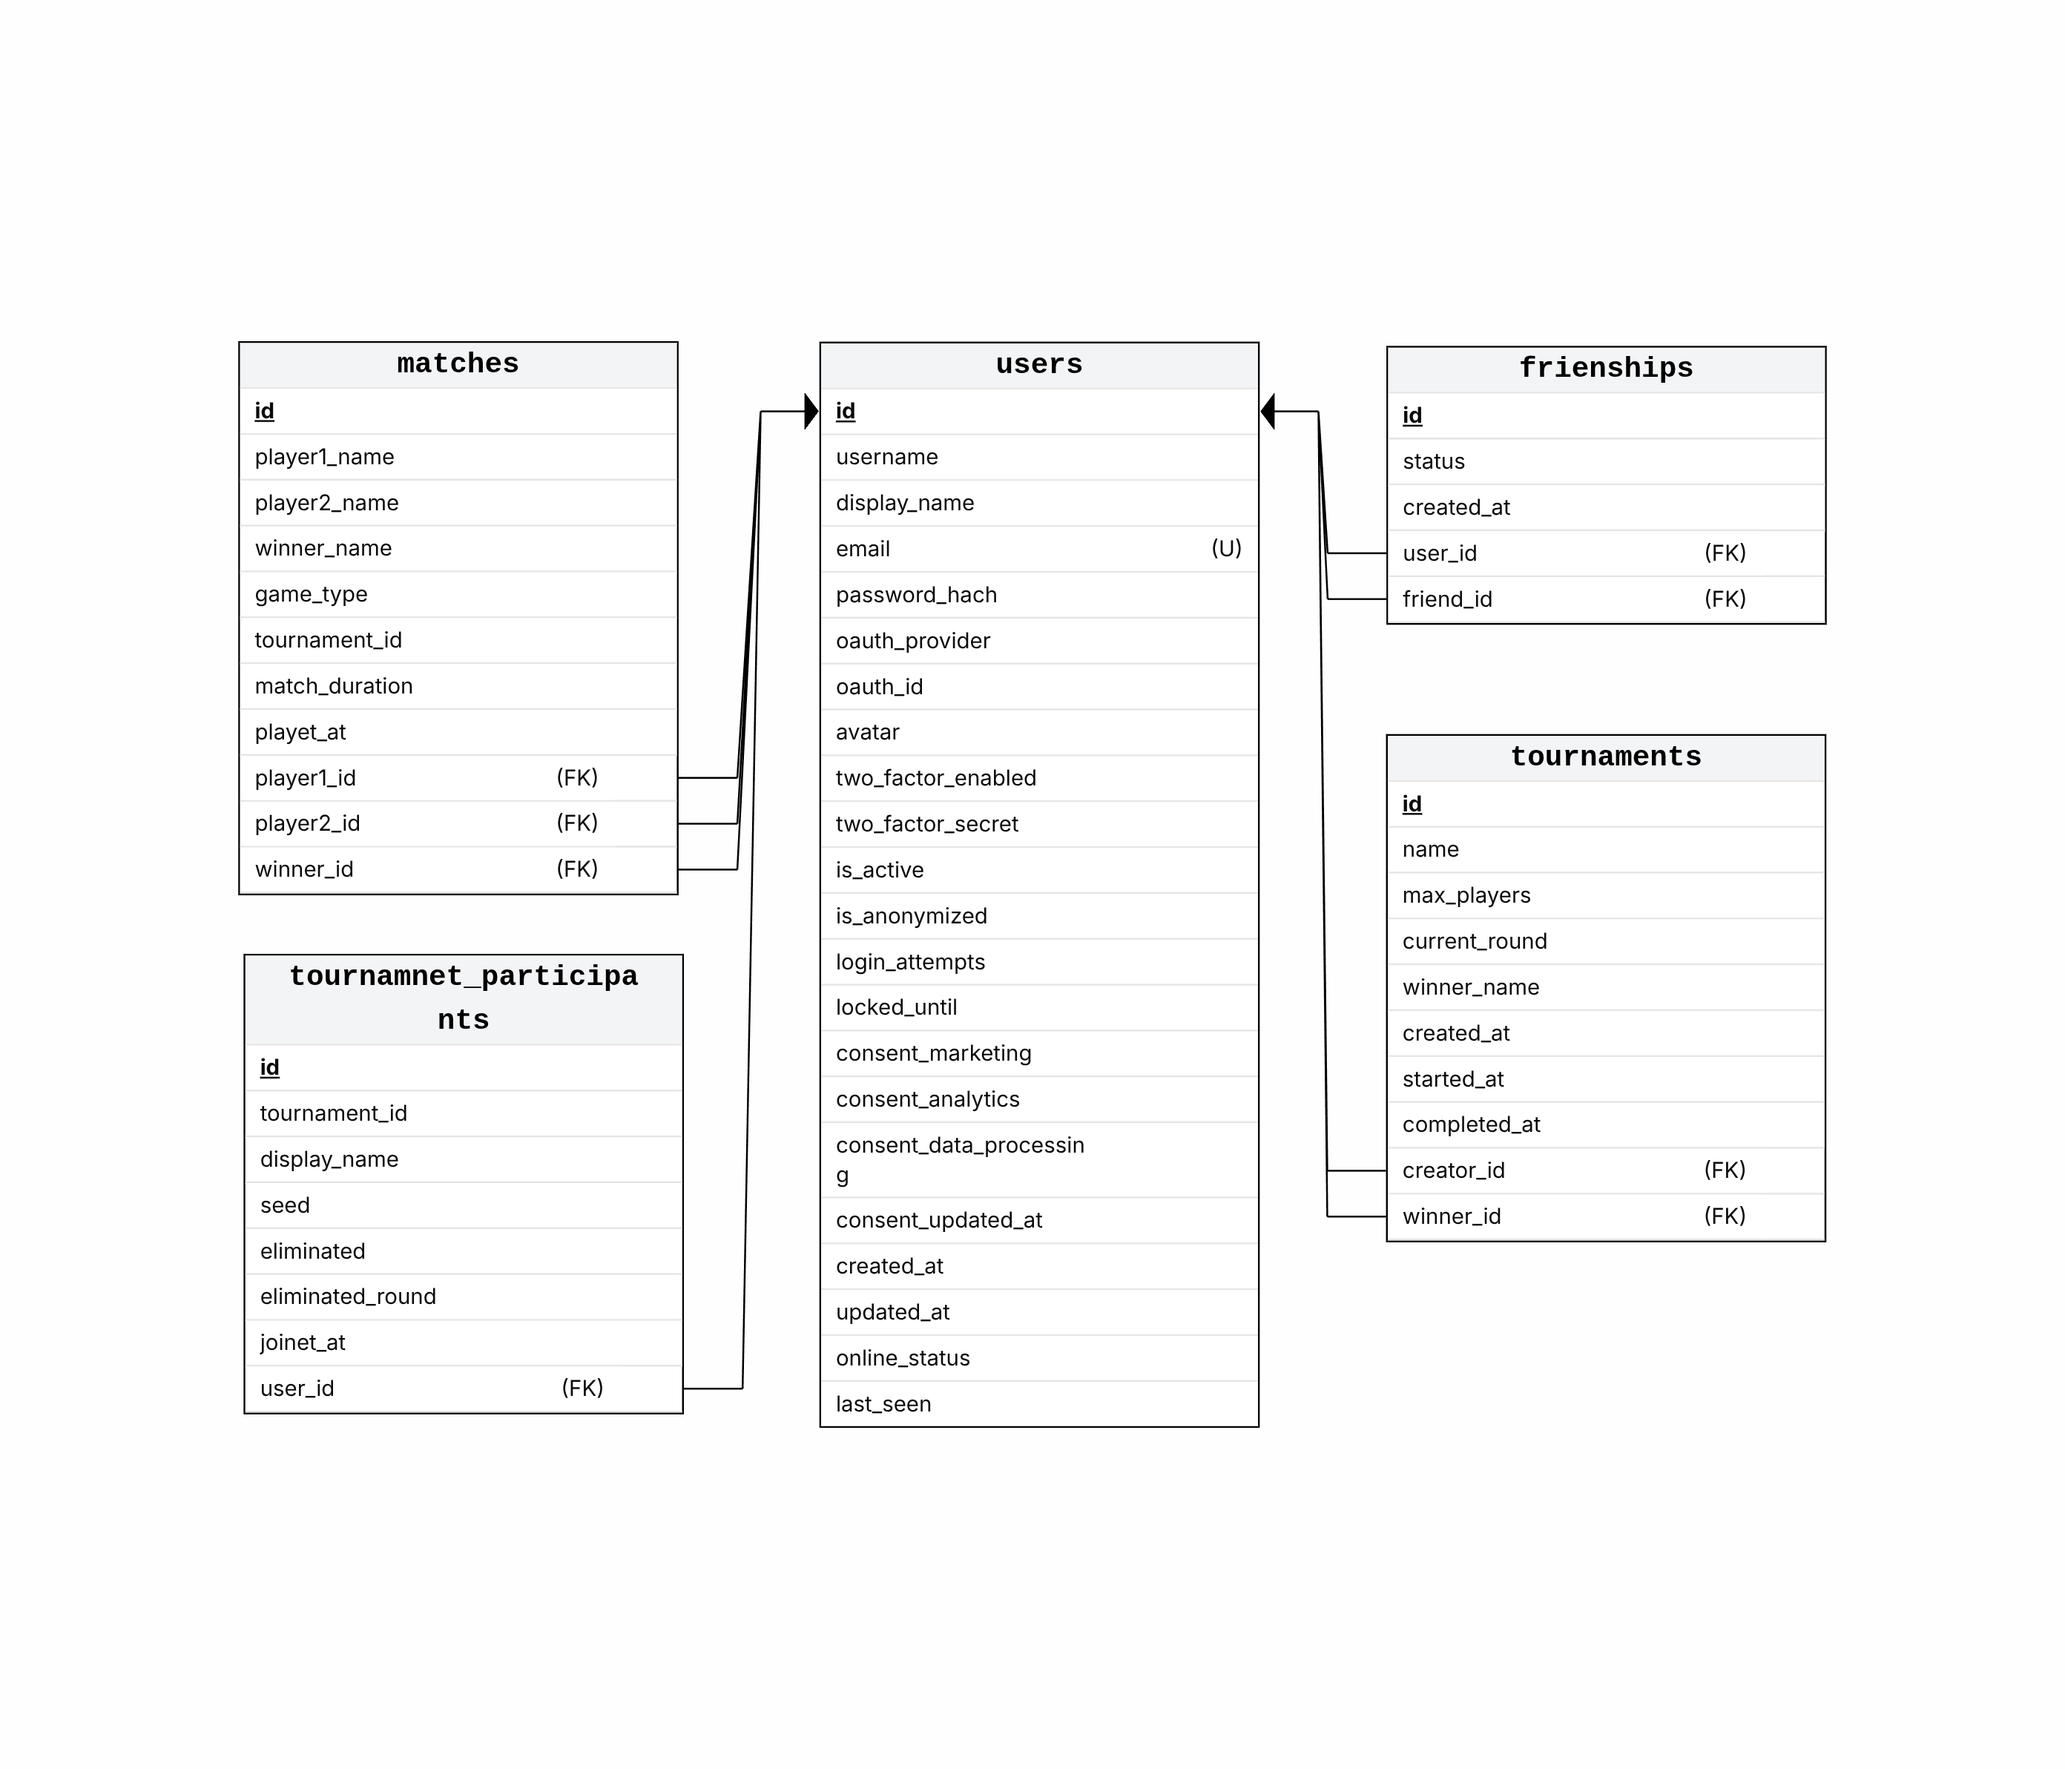
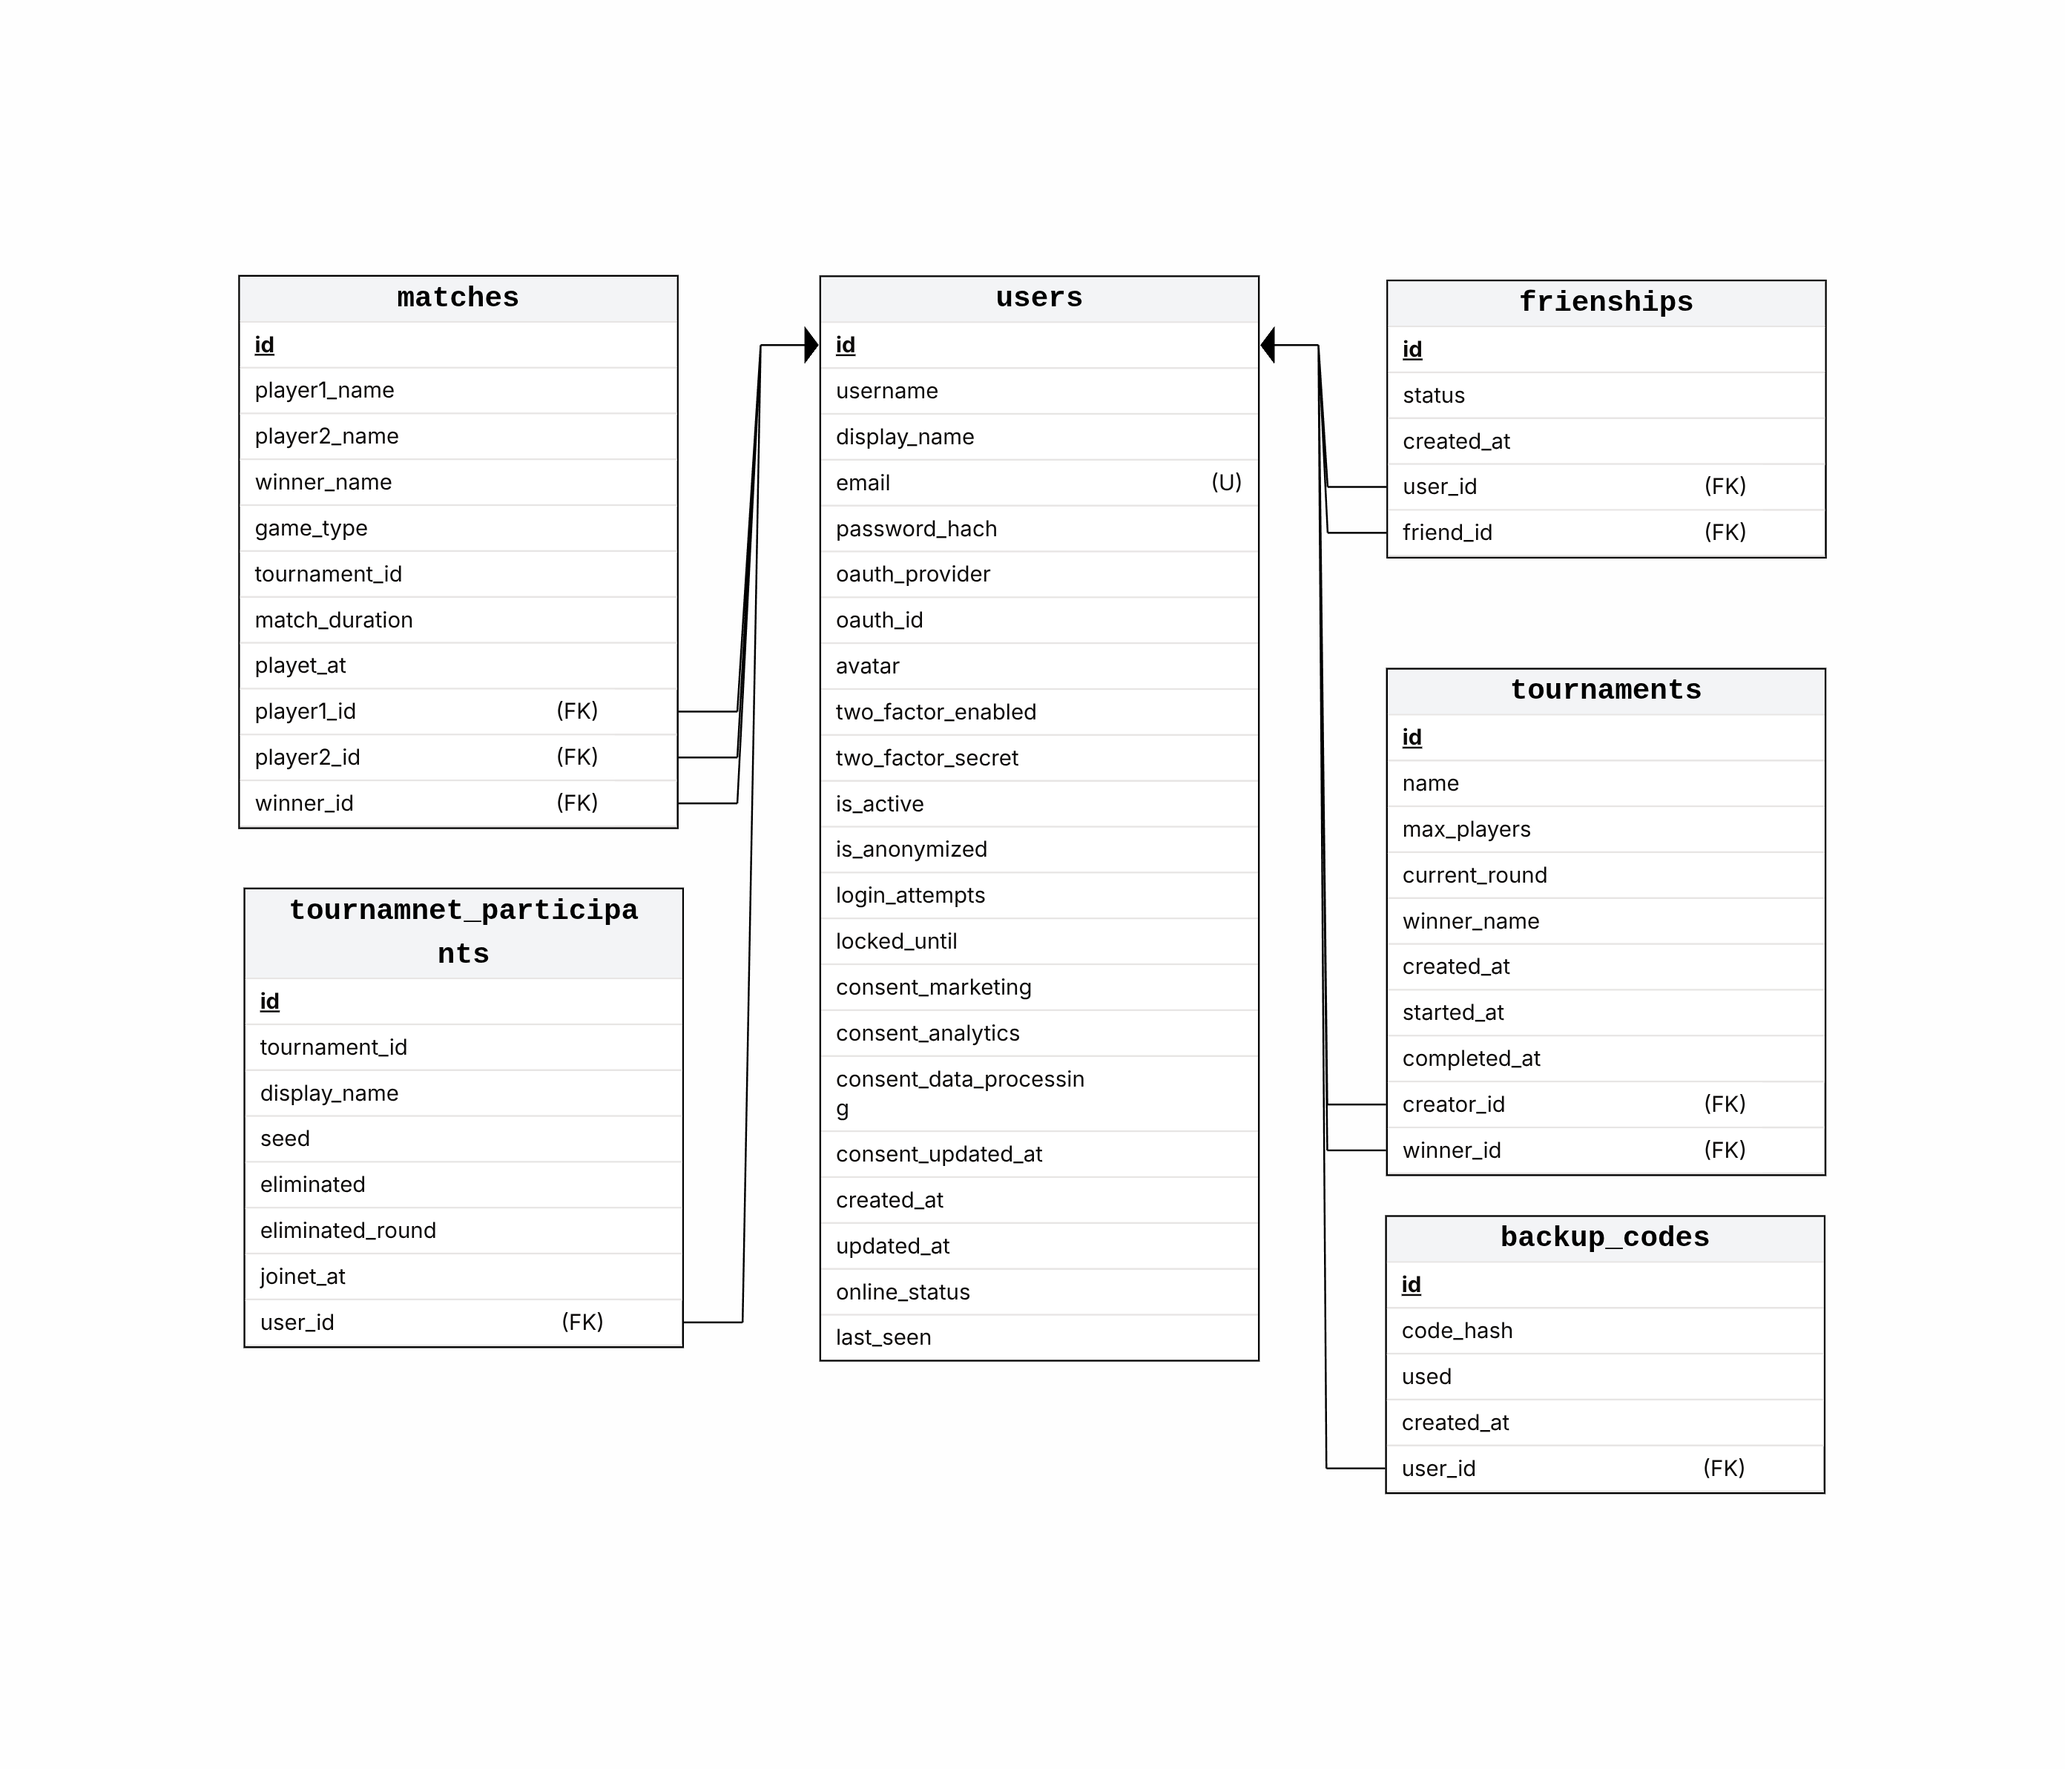
Actualizando documentacion para la base de datos

diff --git a/README.md b/README.md
@@ -203,7 +203,7 @@ Communication channels:
 
 ## Tables and Relationships
 
-The database consists of 7 interconnected tables:
+The database consists of 6 interconnected tables:
 
 **Visual diagram available**: See `_assets/database_schema.png` for a graphical representation.
 
@@ -213,9 +213,6 @@ The database consists of 7 interconnected tables:
 
 ```
 users (PK: id)
-  │
-  ├──→ user_sessions (FK: user_id → users.id)
-  │    └── Tracks active JWT sessions
   │
   ├──→ backup_codes (FK: user_id → users.id)
   │    └── Stores 2FA backup codes
@@ -265,22 +262,12 @@ Columns:
   updated_at              DATETIME  - Last update timestamp
   online_status           TEXT      - Current status (online/offline)
   last_seen               DATETIME  - Last activity timestamp
+
+Note: Game statistics (wins, losses, games_played, win_rate) are calculated 
+dynamically from the matches table, not stored in users table.
 ```
 
-### 2. user_sessions
-```
-PRIMARY KEY: id (TEXT)
-FOREIGN KEY: user_id → users(id) [CASCADE DELETE]
-
-Columns:
-  id          TEXT      - Session identifier
-  user_id     TEXT      - Reference to users table
-  jwt_token   TEXT      - JWT authentication token
-  expires_at  DATETIME  - Token expiration time
-  created_at  DATETIME  - Session creation timestamp
-```
-
-### 3. backup_codes
+### 2. backup_codes
 ```
 PRIMARY KEY: id (INTEGER, auto-increment)
 FOREIGN KEY: user_id → users(id) [CASCADE DELETE]
@@ -293,7 +280,7 @@ Columns:
   created_at DATETIME  - Code generation timestamp
 ```
 
-### 4. friendships
+### 3. friendships
 ```
 PRIMARY KEY: id (INTEGER, auto-increment)
 FOREIGN KEYS: user_id → users(id) [CASCADE DELETE]
@@ -308,7 +295,7 @@ Columns:
   created_at DATETIME  - Request timestamp
 ```
 
-### 5. tournaments
+### 4. tournaments
 ```
 PRIMARY KEY: id (INTEGER, auto-increment)
 FOREIGN KEYS: creator_id → users(id) [SET NULL on delete]
@@ -328,7 +315,7 @@ Columns:
   completed_at  DATETIME  - Completion timestamp
 ```
 
-### 6. tournament_participants
+### 5. tournament_participants
 ```
 PRIMARY KEY: id (INTEGER, auto-increment)
 FOREIGN KEYS: tournament_id → tournaments(id) [CASCADE DELETE]
@@ -345,7 +332,7 @@ Columns:
   joined_at        DATETIME  - Registration timestamp
 ```
 
-### 7. matches
+### 6. matches
 ```
 PRIMARY KEY: id (INTEGER, auto-increment)
 FOREIGN KEYS: player1_id → users(id) [SET NULL on delete]
@@ -372,20 +359,30 @@ Columns:
 ## Design Notes
 
 **Relationship Patterns:**
-- Users can have multiple sessions (1:N)
 - Friendships are bidirectional (users can be both initiator and receiver)
 - Matches support both casual play and tournament games
-- Player/winner names are denormalized to preserve match history
+- Player/winner names are denormalized to preserve match history after account deletion
+
+**Statistics & Leaderboards:**
+- Player statistics calculated dynamically from matches table (not stored in users table)
+- Stats include: wins, losses, games played, win rate (all computed on-demand)
+- Tournament wins tracked via tournaments.winner_id for leaderboard rankings
+- Leaderboard rankings determined by total wins, ordered by win count and games played
+- Match history preserved with game type, scores, duration, and tournament context
+- Public identifiers use username instead of internal database IDs for privacy
 
 **Data Integrity:**
-- CASCADE DELETE: Sessions, backup codes, friendships, tournament participants
+- CASCADE DELETE: Backup codes, friendships, tournament participants
 - SET NULL on DELETE: Match participants, tournament creators/winners
-- This ensures history is preserved even when user accounts are deleted
+- This ensures match history is preserved even when user accounts are deleted
+- Statistics recalculated dynamically ensures data consistency
 
 **Privacy & Compliance:**
 - GDPR consent fields track user preferences
 - is_anonymized flag for user data anonymization
 - Account locking mechanism (login_attempts, locked_until)
+- User IDs never exposed in public APIs; username used as public identifier
+- JWT-based authentication (session managed externally, not in database)
 
 # Features List
 

diff --git a/TODO.md b/TODO.md
@@ -30,7 +30,7 @@ Also Post, Put, Delete etc... should be protected from unexpeected imput (lcueva
 - [ ] Check friends list UI (show friends, online status, send requests) (lcuevas- / todo)
 - [ ] Check tournament UI and matchmaking logic (lcuevas- / todo)
 - [ ] Profile page: show user stats & match history. Bug report 11 (lcuevas- / todo)
-- [ ] Add Leaderboards: Bug report 12 (lcuevas- / todo)
+- [x] Add Leaderboards: Bug report 12 (lcuevas- / lcuevas-)
 - [ ] TicTacToe integration with gameService. Bug report 16 (lcuevas- / todo)
 - [ ] Database service is in realuty UserManagement service, should we change anything? (lcuevas- / todo)
 
@@ -47,7 +47,7 @@ Also Post, Put, Delete etc... should be protected from unexpeected imput (lcueva
 - [x] **004**: Similarly to 003, there are network errors when the api "fails" even in a expcted way. (lcuevas- / lcuevas-)
 - [x] **005**: Navbar interfered with responsiveness. Improved resnposive changes in general. (lcuevas- / lcuevas-)
 - [x] **006**: Navbar is not translated. Some buttons like "Dashboard" and titles  like "Players" in front page also (lcuevas- / pausanch)
-- [ ] **007**: Update database scheme in README and image to the last version with tournament and sessions? (lcuevas- / TODO)
+- [x] **007**: Update database scheme in README and image to the last version with tournament and sessions? (lcuevas- / lcuevas-)
 - [x] **008**: Handling fetch error when failing to log a player as second player in a match (lcuevas- / lcuevas-)
 - [x] **009**: You cna play against yourself if logged in (lcuevas- / lcuevas-)
 - [ ] **010**: Check friends process and online status (lcuevas- / todo)
@@ -112,3 +112,4 @@ Also aded empty body to /api/2fa/backup-codes/generate (lcuevas- / lcuevas-)
 - [x] **037**: 2fa recovery codes can't be used. They needed to be regostered as a public route and logic had to be updated. Translation updated (lcuevas- / lcuevas-)
 - [x] **032**: Aded security audit file wiht some problematic endpoints. Moved to deprecated_docs folder (lcuevas- / lcuevas-)
 - [x] **012**: Make the leaderboard. Added to the player pages with translations and new enpoints in players.js and tournaments.js (lcuevas- / lcuevas-)
+- [x] **007**: Update database scheme in README and image to the last version with tournament and sessions. Schema is complete with all tables documented. Image updated too (lcuevas- / lcuevas-)
